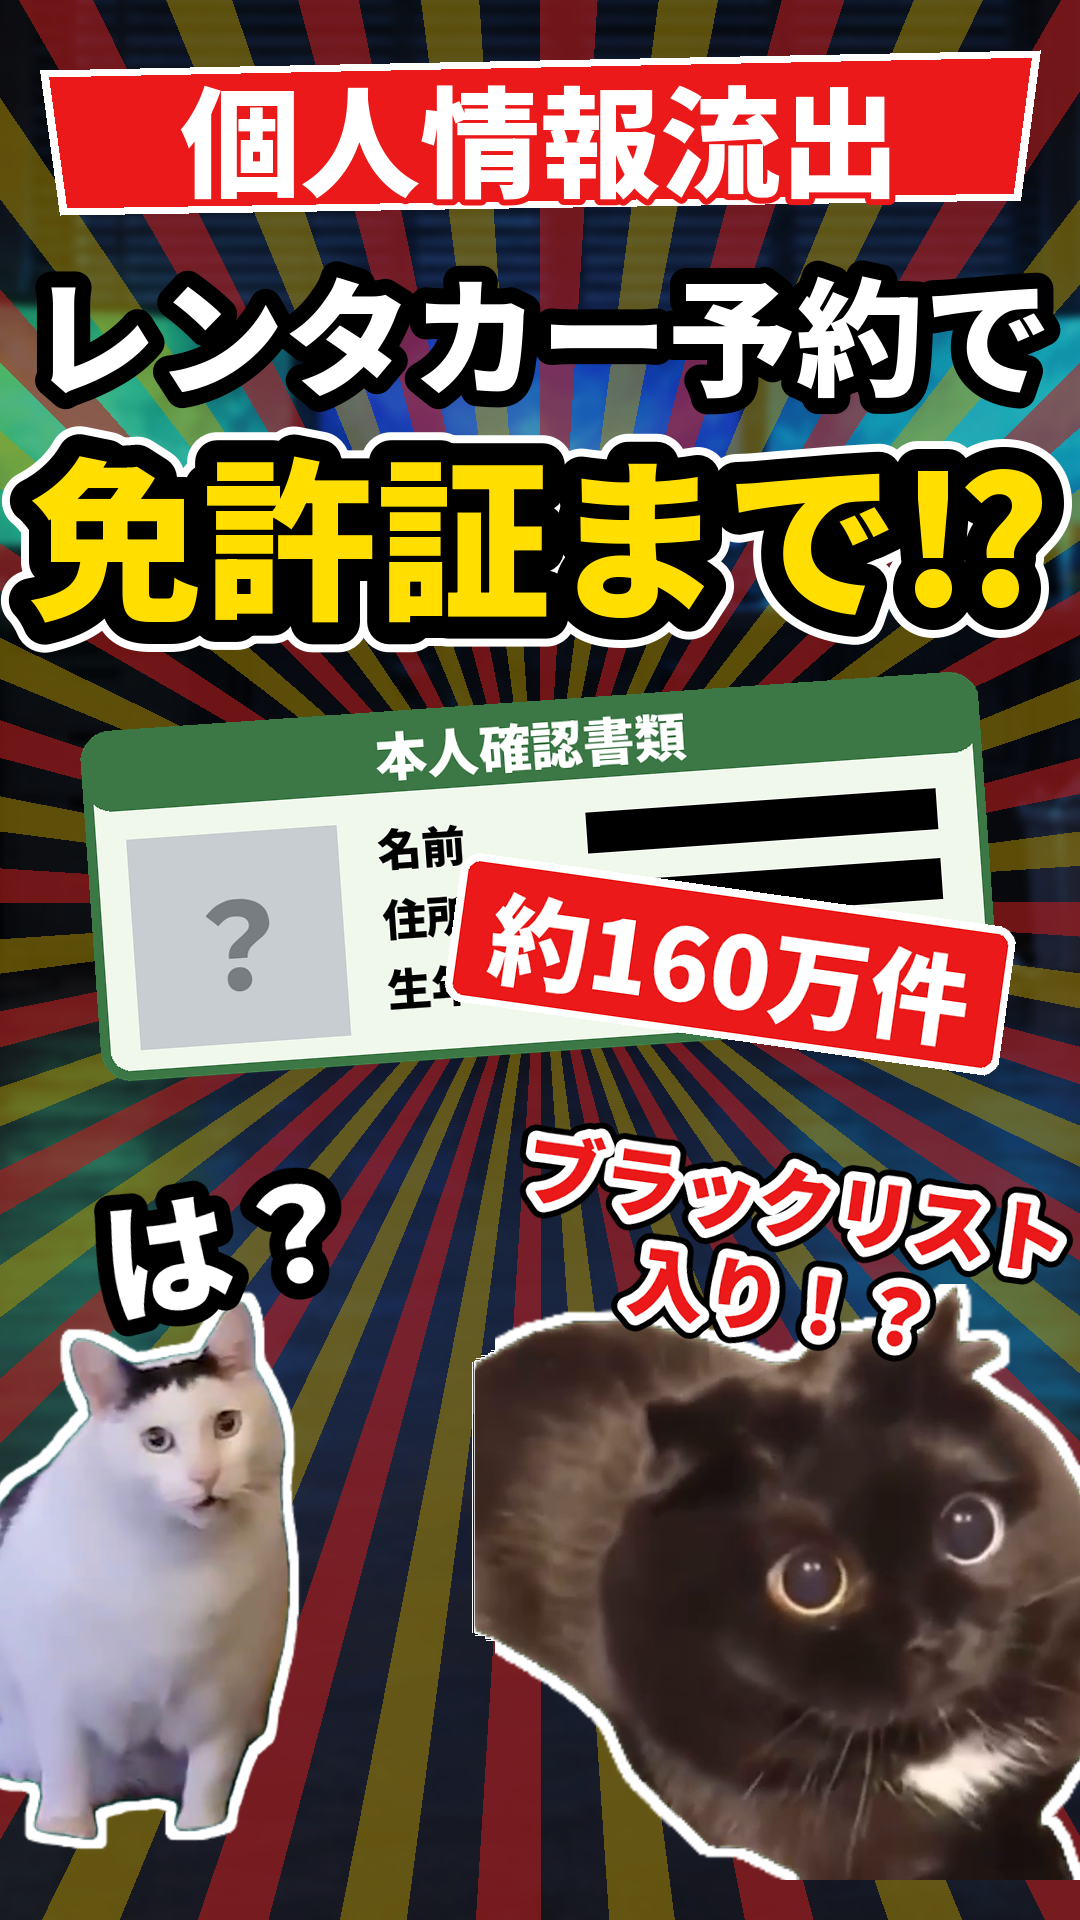
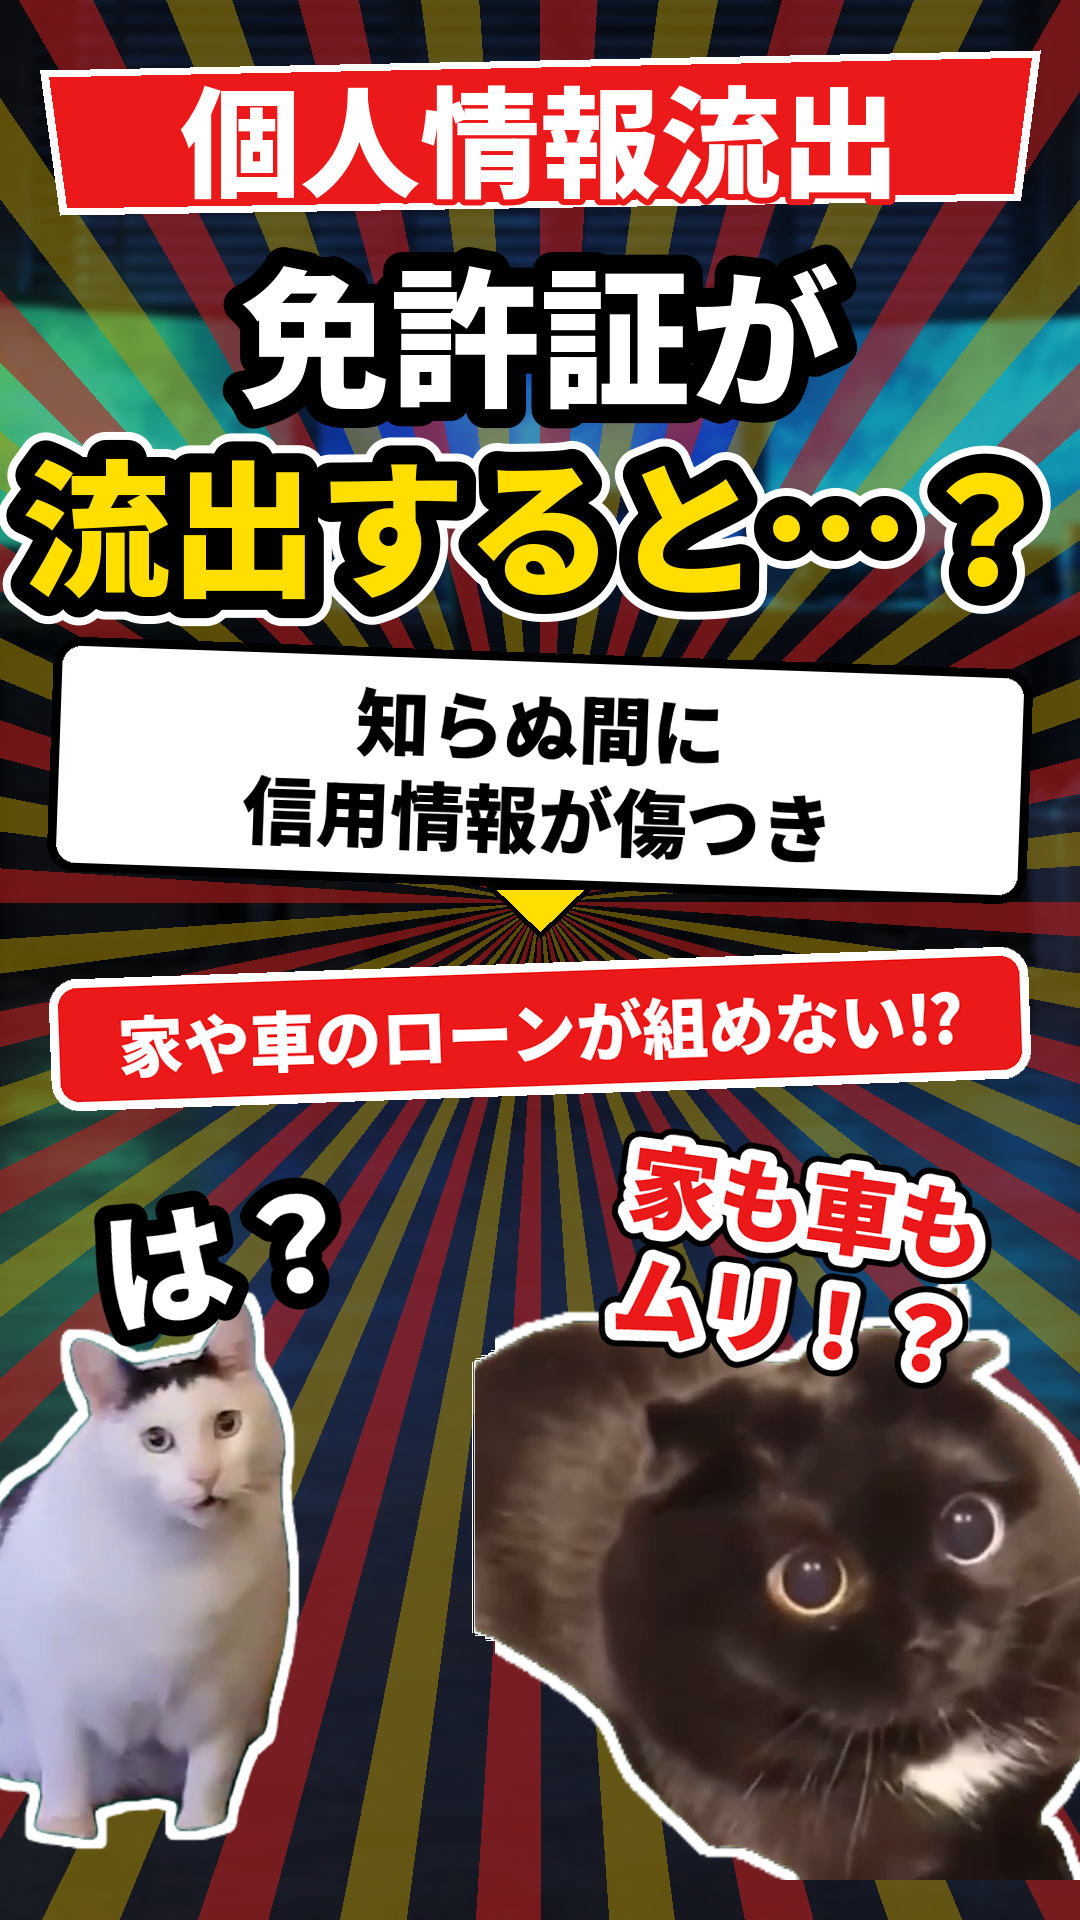
ショートA サムネ：免許証が流出すると…信用情報→ローンが組めない、に変更
Claude-Session: https://claude.ai/code/session_011g9CsrfFD5YswfNSvNDW39

diff --git a/catmeme/make_thumb_short_04.py b/catmeme/make_thumb_short_04.py
@@ -79,30 +79,25 @@ def license_thumb():
     img = base("bg23_hacker_room", ((255, 40, 40, 150), (255, 210, 0, 120)))
     d = ImageDraw.Draw(img)
     topic_band(img, "個人情報流出")
-    fit_text(d, (W / 2, 330), "レンタカー予約で", 1030, 140, WHITE, BLACK, double=None)
-    fit_text(d, (W / 2, 530), "免許証まで⁉", 1040, 190, YELLOW, BLACK, double=WHITE)
-    # 真ん中：免許証ふうのカード（中身は伏せ字）
-    pw = Image.new("RGBA", (900, 360), (0, 0, 0, 0))
-    pd = ImageDraw.Draw(pw)
-    pd.rounded_rectangle((0, 0, 900, 350), 30, fill=(240, 248, 236), outline=(60, 120, 70), width=10)
-    pd.rounded_rectangle((0, 0, 900, 80), 30, fill=(60, 120, 70))
-    pd.text((450, 42), "本人確認書類", font=P.font("black", 52), fill=WHITE, anchor="mm")
-    pd.rectangle((40, 110, 250, 320), fill=(200, 205, 210))
-    pd.text((145, 215), "？", font=P.font("black", 120), fill=(120, 125, 130), anchor="mm")
-    for k, lab in enumerate(("名前", "住所", "生年月日")):
-        y = 135 + k * 70
-        pd.text((290, y), lab, font=P.font("black", 44), fill=BLACK, anchor="lm")
-        pd.rectangle((500, y - 20, 850, y + 20), fill=BLACK)
-    pw = pw.rotate(4, expand=True, resample=Image.BICUBIC)
-    img.alpha_composite(pw, (int(W / 2 - pw.width / 2), 670))
-    stamp = Image.new("RGBA", (560, 150), (0, 0, 0, 0))
-    sd = ImageDraw.Draw(stamp)
-    sd.rounded_rectangle((0, 0, 560, 150), 20, fill=RED, outline=WHITE, width=8)
-    sd.text((280, 75), "約160万件", font=P.font("black", 100), fill=WHITE, anchor="mm")
-    stamp = stamp.rotate(-8, expand=True, resample=Image.BICUBIC)
-    img.alpha_composite(stamp, (int(W / 2 - stamp.width / 2 + 190), 850))
+    fit_text(d, (W / 2, 330), "免許証が", 1030, 150, WHITE, BLACK, double=None)
+    fit_text(d, (W / 2, 520), "流出すると…？", 1040, 180, YELLOW, BLACK, double=WHITE)
+    # 真ん中：「信用情報が傷つく → ローンが組めない」の2段
+    for k, (text, fill, fg, y, rot, size) in enumerate((("知らぬ間に\n信用情報が傷つき", WHITE, BLACK, 635, -2, 74),
+                                                        ("家や車のローンが組めない⁉", RED, WHITE, 945, 2, 66))):
+        f = P.font("black", size)
+        lines = text.split("\n")
+        bw, bh = 980, int(size * 1.25 * len(lines)) + 50
+        b = Image.new("RGBA", (bw, bh), (0, 0, 0, 0))
+        bd = ImageDraw.Draw(b)
+        bd.rounded_rectangle((0, 0, bw - 1, bh - 1), 28, fill=fill, outline=BLACK if fill == WHITE else WHITE, width=9)
+        for n, t in enumerate(lines):
+            bd.text((bw / 2, 25 + size * 0.62 + n * size * 1.25), t, font=f, fill=fg, anchor="mm")
+        b = b.rotate(rot, expand=True, resample=Image.BICUBIC)
+        img.alpha_composite(b, (int(W / 2 - b.width / 2), y))
+    d = ImageDraw.Draw(img)
+    d.polygon([(W / 2 - 55, 885), (W / 2 + 55, 885), (W / 2, 938)], fill=YELLOW, outline=BLACK, width=5)
     cats(img, ("huh_huh_cat", 1.0, False), ("surprise_big_pupils_cat", 0.6, True))
-    words(img, [("は？", 230, 1240, 130, WHITE, 10), ("ブラックリスト\n入り！？", 790, 1250, 78, RED, -8)])
+    words(img, [("は？", 230, 1250, 130, WHITE, 10), ("家も車も\nムリ！？", 800, 1260, 90, RED, -8)])
     save(img, "short_04a_license")
 
 
